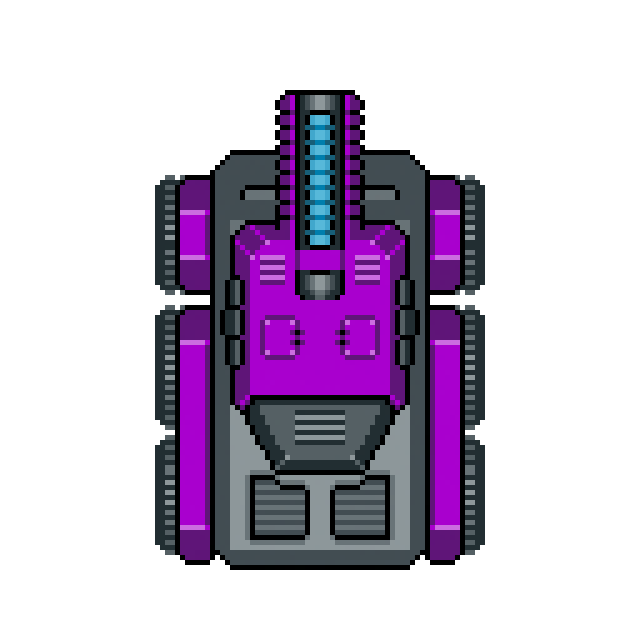
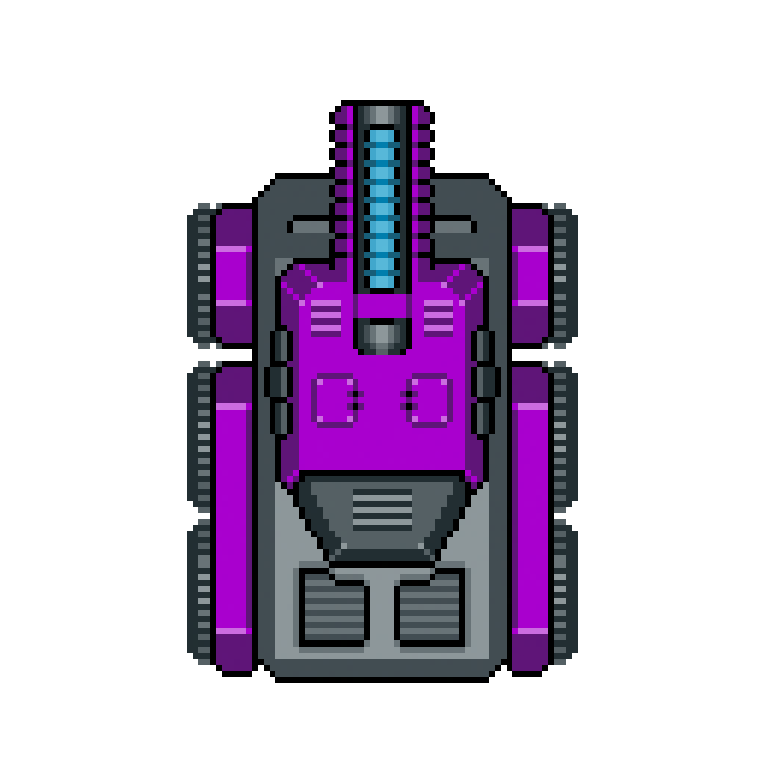
"added sprite for being destroyed"

Changed region(s): [[0.25, 0.125, 0.7812, 0.9062]]

diff --git a/src/components/tank.js b/src/components/tank.js
@@ -21,6 +21,27 @@ export class Tank {
       }
     }
 
+    // Cache default image transform so we can reapply it
+    // when swapping animation frames.
+    this._baseImage = this.sprite.image || null;
+    this._imageScale = this.sprite.image?.scale ?? 0.1;
+    this._imageOffsetY = this.sprite.image?.offset?.y ?? -10;
+
+    // Optional per-character animation sheets (only defined for
+    // tanks that provide them, e.g. Tank Alpha).
+    this.shootSheet = character?.shootSheet || null;
+    this.destroySheet = character?.destroySheet || null;
+    this.shootFrameCount = character?.shootFrames || 0;
+    this.destroyFrameCount = character?.destroyFrames || 0;
+
+    this._shootFrames = null;
+    this._destroyFrames = null;
+
+    this._animState = "idle"; // "idle" | "shoot" | "dead"
+    this._animFrameIndex = 0;
+    this._animLastFrameTime = 0;
+    this._animFrameDuration = 60; // ms per frame (overridden per anim)
+
     this.sprite.rotation = 0;
     this.sprite.rotationLock = true;
     this.sprite.friction = 0;
@@ -89,15 +110,141 @@ export class Tank {
     this.orbEffectEndTimes = {};
 
     this.lastShotTime = 0;
+
+    // Reset animation state (used when starting a new round).
+    this._animState = "idle";
+    this._animFrameIndex = 0;
+    this._animLastFrameTime = 0;
+
+    if (this._baseImage) {
+      this.sprite.image = this._baseImage;
+      this._applyImageTransform();
+    }
+  }
+
+  _applyImageTransform() {
+    if (!this.sprite.image) return;
+    this.sprite.image.scale = this._imageScale;
+    if (!this.sprite.image.offset) this.sprite.image.offset = { x: 0, y: 0 };
+    this.sprite.image.offset.y = this._imageOffsetY;
+  }
+
+  _ensureShootFrames() {
+    if (this._shootFrames || !this.shootSheet || this.shootFrameCount <= 0) {
+      return;
+    }
+
+    const frameW = this.shootSheet.width / this.shootFrameCount;
+    const frameH = this.shootSheet.height;
+    this._shootFrames = [];
+    for (let i = 0; i < this.shootFrameCount; i++) {
+      const frame = this.shootSheet.get(frameW * i, 0, frameW, frameH);
+      this._shootFrames.push(frame);
+    }
+  }
+
+  _ensureDestroyFrames() {
+    if (
+      this._destroyFrames ||
+      !this.destroySheet ||
+      this.destroyFrameCount <= 0
+    ) {
+      return;
+    }
+
+    const frameW = this.destroySheet.width / this.destroyFrameCount;
+    const frameH = this.destroySheet.height;
+    this._destroyFrames = [];
+    for (let i = 0; i < this.destroyFrameCount; i++) {
+      const frame = this.destroySheet.get(frameW * i, 0, frameW, frameH);
+      this._destroyFrames.push(frame);
+    }
+  }
+
+  _startShootAnimation() {
+    if (!this.shootSheet || this.health <= 0) return;
+    this._ensureShootFrames();
+    if (!this._shootFrames || this._shootFrames.length === 0) return;
+
+    this._animState = "shoot";
+    this._animFrameIndex = 0;
+    this._animFrameDuration = 60;
+    this._animLastFrameTime = this.p.millis();
+    this.sprite.image = this._shootFrames[0];
+    this._applyImageTransform();
+  }
+
+  _startDestroyedAnimation() {
+    if (!this.destroySheet) return;
+    this._ensureDestroyFrames();
+    if (!this._destroyFrames || this._destroyFrames.length === 0) return;
+
+    this._animState = "dead";
+    this._animFrameIndex = 0;
+    this._animFrameDuration = 90;
+    this._animLastFrameTime = this.p.millis();
+    this.sprite.image = this._destroyFrames[0];
+    this._applyImageTransform();
+  }
+
+  _updateAnimation() {
+    const now = this.p.millis();
+
+    if (this._animState === "shoot") {
+      if (!this._shootFrames || this._shootFrames.length === 0) {
+        this._animState = "idle";
+        this.sprite.image = this._baseImage;
+        this._applyImageTransform();
+        return;
+      }
+
+      if (now - this._animLastFrameTime >= this._animFrameDuration) {
+        this._animLastFrameTime = now;
+        this._animFrameIndex += 1;
+        if (this._animFrameIndex >= this._shootFrames.length) {
+          this._animState = "idle";
+          this.sprite.image = this._baseImage;
+          this._applyImageTransform();
+          return;
+        }
+      }
+
+      this.sprite.image = this._shootFrames[this._animFrameIndex];
+      this._applyImageTransform();
+    } else if (this._animState === "dead") {
+      if (!this._destroyFrames || this._destroyFrames.length === 0) return;
+
+      if (now - this._animLastFrameTime >= this._animFrameDuration) {
+        this._animLastFrameTime = now;
+        if (this._animFrameIndex < this._destroyFrames.length - 1) {
+          this._animFrameIndex += 1;
+        }
+      }
+
+      this.sprite.image = this._destroyFrames[this._animFrameIndex];
+      this._applyImageTransform();
+    }
+  }
+
+  // Public helper so game loop can advance animations (e.g. destroyed
+  // explosions) even during round-over states without processing input
+  // or movement.
+  tickAnimationOnly() {
+    this._updateAnimation();
   }
 
   update() {
     this.updateEffects();
+
+    // Run sprite animation (shooting / destroyed) every frame.
+    this._updateAnimation();
+
+    const isDead = this.health <= 0;
     const isFrozen = this.activeEffects.some(
       (effect) => effect.type === "speed" && effect.value === 0,
     );
 
-    if (isFrozen) {
+    if (isDead || isFrozen) {
       this.sprite.speed = 0;
       this.sprite.vel.x = 0;
       this.sprite.vel.y = 0;
@@ -152,6 +299,7 @@ export class Tank {
 
   updateEffects() {
     const currentTime = this.p.millis();
+    const prevHealth = this.health;
 
     this.activeEffects = this.activeEffects.filter((effect) => {
       if (currentTime >= effect.endTime) {
@@ -167,10 +315,22 @@ export class Tank {
         !this.lastBurnDamageTime ||
         currentTime - this.lastBurnDamageTime >= 100
       ) {
+        const before = this.health;
         this.health -= this.burningDamagePerTick;
         if (this.health < 0) this.health = 0;
         this.lastBurnDamageTime = currentTime;
         log(`Burning damage: ${this.burningDamagePerTick} HP`);
+
+        // If burning alone killed the tank (not a bullet), start
+        // the destroyed animation and SFX just like a direct hit.
+        if (before > 0 && this.health <= 0) {
+          this._startDestroyedAnimation();
+          // @ts-ignore
+          if (window.__mazyPlayDestroyedSfx) {
+            // @ts-ignore
+            window.__mazyPlayDestroyedSfx();
+          }
+        }
       }
     } else if (this.burningEndTime && currentTime >= this.burningEndTime) {
       this.burningEndTime = null;
@@ -297,6 +457,8 @@ export class Tank {
         this.fireLaserBeam();
       } else {
         this.createBullet();
+        // Optional muzzle-flash shooting animation (e.g. Tank Alpha)
+        this._startShootAnimation();
       }
       this.lastShotTime = currentTime;
 
@@ -372,6 +534,9 @@ export class Tank {
 
     // Death SFX (only when crossing from alive to dead)
     if (this.health <= 0 && prevHealth > 0) {
+      // Trigger destroyed animation if this tank has one.
+      this._startDestroyedAnimation();
+
       // @ts-ignore
       if (window.__mazyPlayDestroyedSfx) {
         // @ts-ignore

diff --git a/src/interface.js b/src/interface.js
@@ -2,6 +2,10 @@ export const tankCharacters = [
     {
         name: 'Tank Alpha',
         image: '../assets/characters/alpha/Tank-Alpha.png',
+        shootSheet: '../assets/characters/alpha/remove.png',
+        shootFrames: 8,
+        destroySheet: '../assets/characters/alpha/inangyarn.png',
+        destroyFrames: 8,
         baseSpeed: 5,
         shootCooldown: 400,
         baseDamage: 18,
@@ -15,6 +19,8 @@ export const tankCharacters = [
     {
         name: 'Tank Bravo',
         image: '../assets/characters/bravo/Tank-Bravo.png',
+        destroySheet: '../assets/characters/bravo/bravo-destroyed-sprite.png',
+        destroyFrames: 8,
         baseSpeed: 4,
         shootCooldown: 500,
         baseDamage: 9,
@@ -28,6 +34,8 @@ export const tankCharacters = [
     {
         name: 'Tank Cobra',
         image: '../assets/characters/cobra/Tank-Cobra.png',
+        destroySheet: '../assets/characters/cobra/cobra-destroyed-sprite.png',
+        destroyFrames: 8,
         baseSpeed: 6.5,
         shootCooldown: 320,
         baseDamage: 15,
@@ -41,6 +49,8 @@ export const tankCharacters = [
     {
         name: 'Tank Delta',
         image: '../assets/characters/delta/Tank-Delta.png',
+        destroySheet: '../assets/characters/delta/delta-destroyed-sprite.png',
+        destroyFrames: 8,
         baseSpeed: 4.5,
         shootCooldown: 880,
         baseDamage: 32,

diff --git a/src/main.js b/src/main.js
@@ -165,14 +165,9 @@ const sketch = (p) => {
   function resolveTrackIndex(mapIndex) {
     if (!musicTracks || musicTracks.length === 0) return -1;
 
-    const clamped = Math.max(0, Math.min(mapIndex, musicTracks.length - 1));
-    if (mapIndex !== clamped && !warnedTrackClamp) {
-      console.warn(
-        "Map index exceeds available BGM tracks. Reusing last available track.",
-      );
-      warnedTrackClamp = true;
-    }
-    return clamped;
+    // Always use the first track (MAP 1) for arena BGM,
+    // regardless of which map is selected.
+    return 0;
   }
 
   function playMapMusic(mapIndex) {
@@ -1152,6 +1147,18 @@ const sketch = (p) => {
     }
 
     if (roundOver) {
+      // While the round winner banner is showing, keep advancing
+      // tank animations (e.g. destroyed explosions) but skip
+      // input/movement and other gameplay.
+      for (const player of gameState.players) {
+        if (player && typeof player.tickAnimationOnly === "function") {
+          player.tickAnimationOnly();
+        }
+      }
+      if (gameState.bot && typeof gameState.bot.tickAnimationOnly === "function") {
+        gameState.bot.tickAnimationOnly();
+      }
+
       if (p.millis() >= roundResetAt) {
         resetRound();
       }

diff --git a/src/helper.js b/src/helper.js
@@ -75,10 +75,22 @@ export function wallsColliderSetup(p, hWalls, vWalls, borderWalls) {
 
 export function preloadImages(p) {
     for (let i = 0; i < tankCharacters.length; i++) {
-        const imagePath = typeof tankCharacters[i].image === 'string'
-            ? tankCharacters[i].image
-            : tankCharacters[i].imagePath;
-        tankCharacters[i].image = p.loadImage(imagePath);
+        const tank = tankCharacters[i];
+
+        const imagePath = typeof tank.image === 'string'
+            ? tank.image
+            : tank.imagePath;
+        tank.image = p.loadImage(imagePath);
+
+        // Optional shooting / destroyed sprite sheets for tanks that
+        // provide them (currently Tank Alpha only).
+        if (typeof tank.shootSheet === 'string') {
+            tank.shootSheet = p.loadImage(tank.shootSheet);
+        }
+
+        if (typeof tank.destroySheet === 'string') {
+            tank.destroySheet = p.loadImage(tank.destroySheet);
+        }
     }
 
     for (let i = 0; i < orbTypes.length; i++) {

diff --git a/arena.html b/arena.html
@@ -228,11 +228,9 @@
         <!-- Action Buttons -->
         <div class="game-over-buttons">
           <button id="rematchBtn" class="game-over-btn rematch-btn">
-            <span class="btn-key"></span> REMATCH
+            REMATCH
           </button>
-          <button id="menuBtn" class="game-over-btn menu-btn">
-            <span class="btn-key"></span> MENU
-          </button>
+          <button id="menuBtn" class="game-over-btn menu-btn">MENU</button>
         </div>
 
         <!-- Keyboard Hint -->
